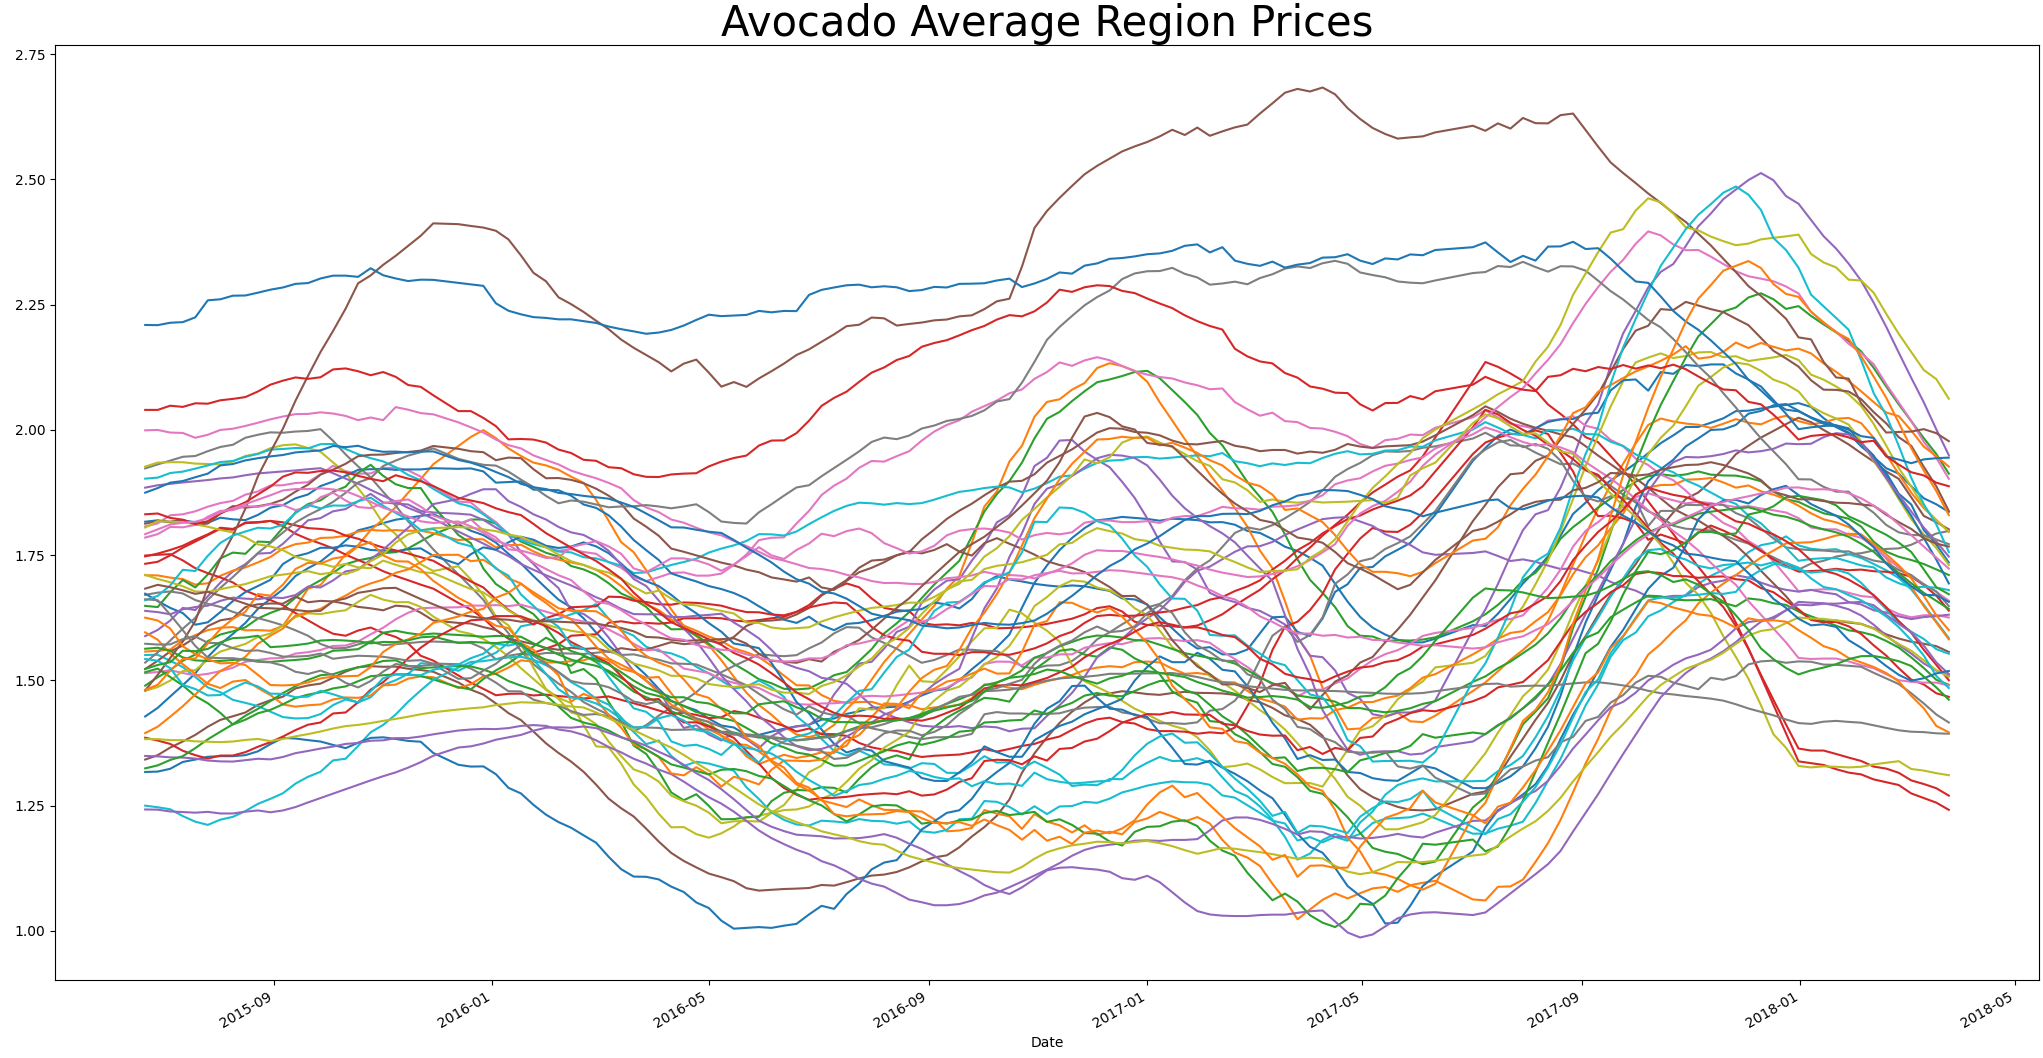
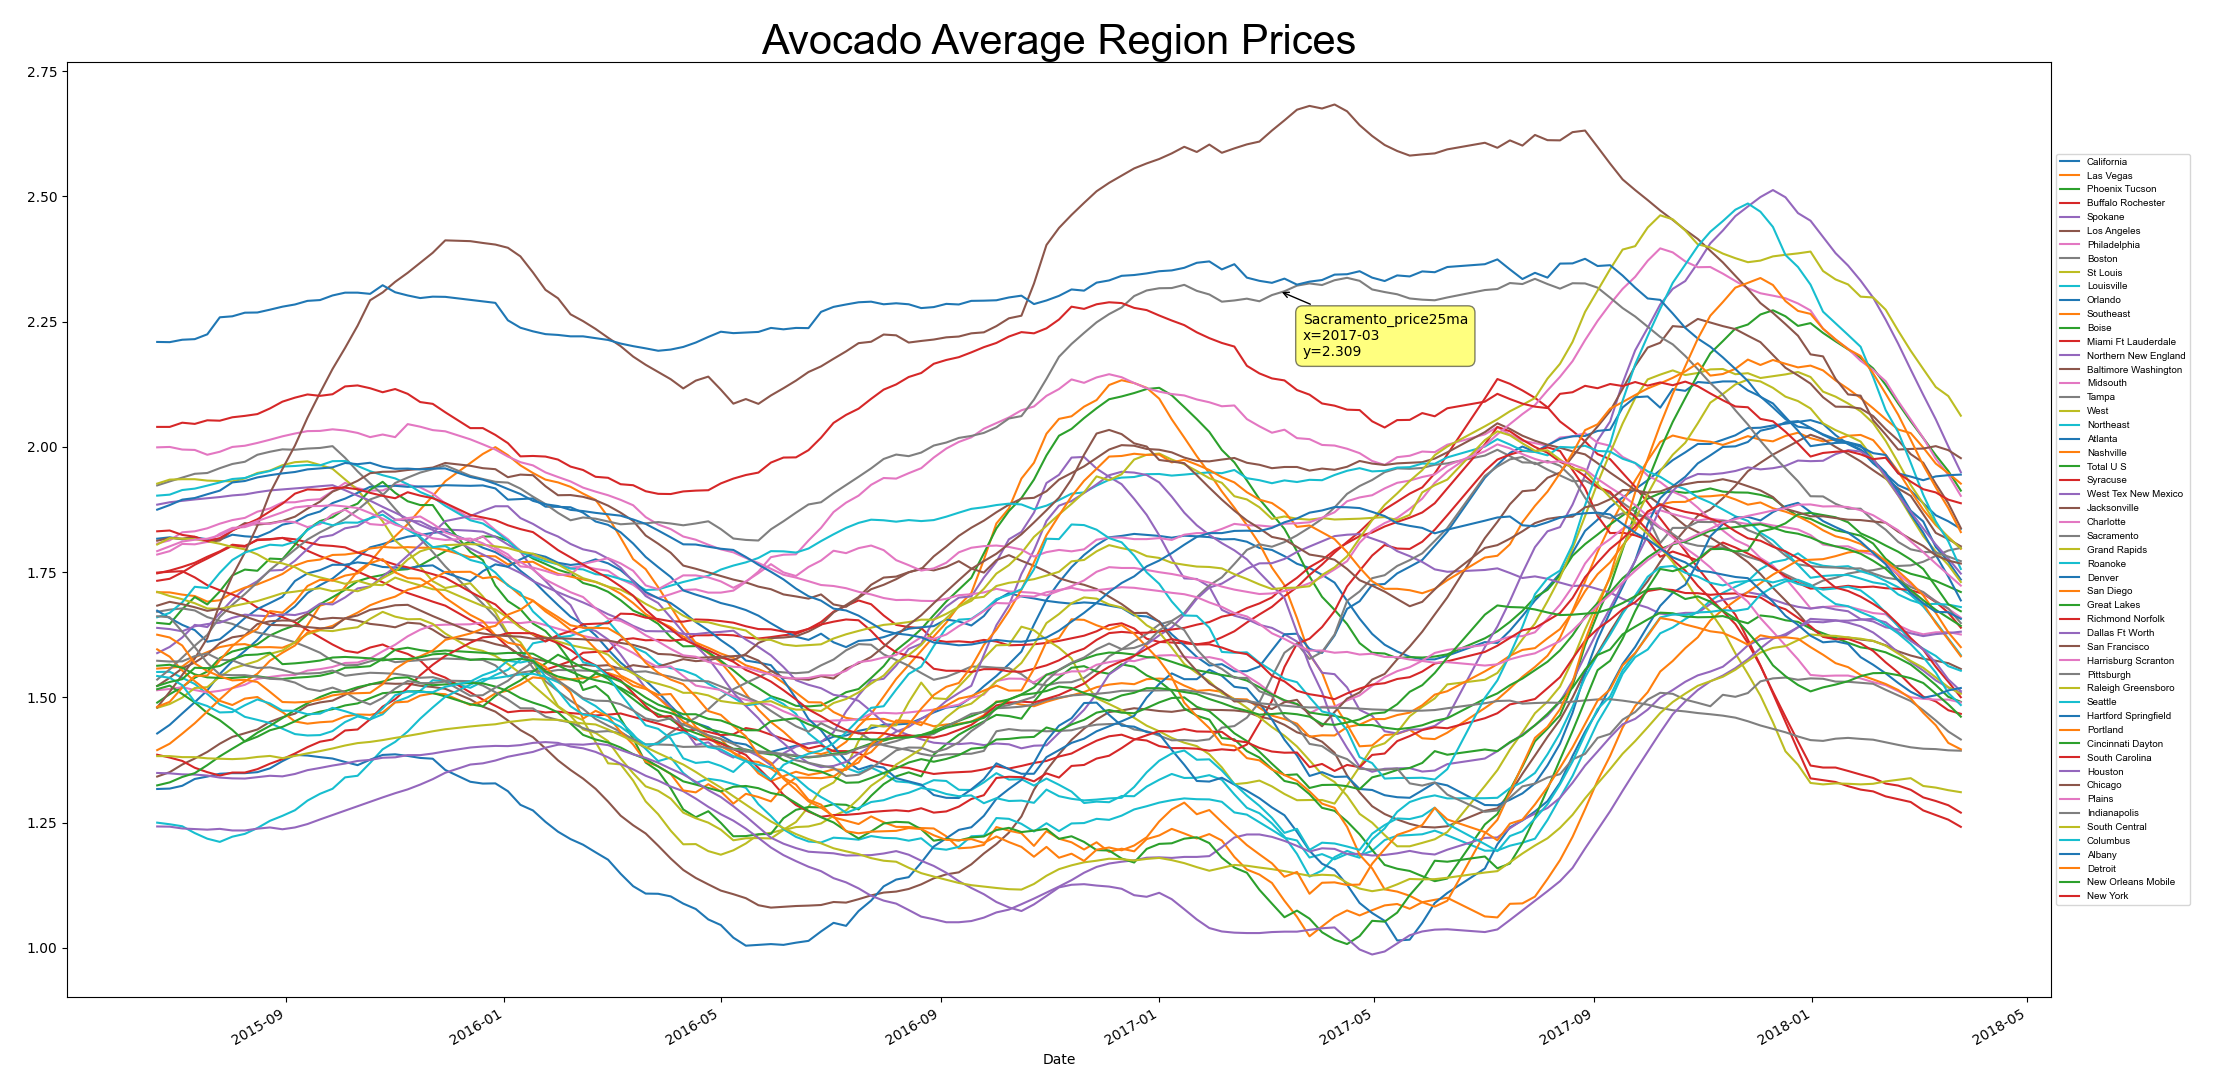
added mplcursors to add highlight upon click, and updated image for README.md

diff --git a/main.py b/main.py
@@ -1,6 +1,7 @@
 import pandas as pd
 import matplotlib.pyplot as plt
 import re
+import mplcursors
 
 # turns off the warning for chained assignment
 pd.set_option('mode.chained_assignment', None)
@@ -47,5 +48,11 @@ graph_complete = graph_df.dropna().plot(figsize=(20,12), legend=True)
 graph_complete.set_title('Avocado Average Region Prices', size=30, fontfamily='Arial')
 # set the x-axis label of the graph to anchor outside of the graph, on the right side with 1 column and a font size of 7
 graph_complete.legend(labels=limited_legend_labels, loc='center left', bbox_to_anchor=(1.0, 0.5), ncol=1, prop={'family': 'Arial', 'size': 7})
+
+# create the mplcursors cursor object for the plot
+cursors = mplcursors.cursor(graph_complete)
+# set the hover annotation format
+cursors.add_highlight('{label}') 
+
 # show the graph
 plt.show()
